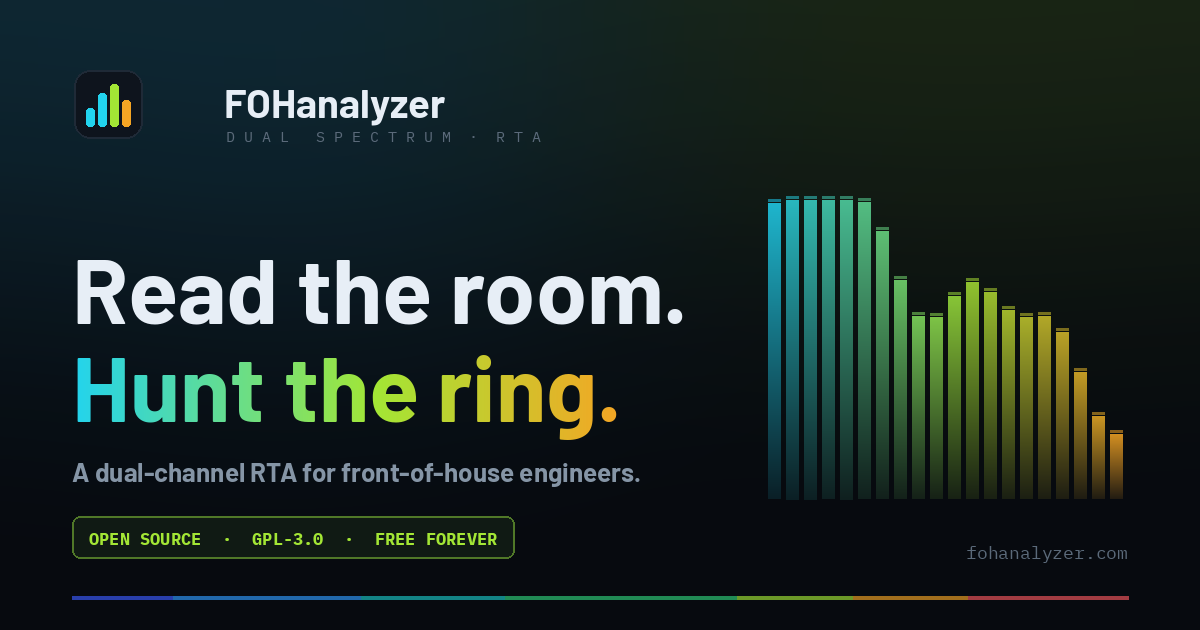
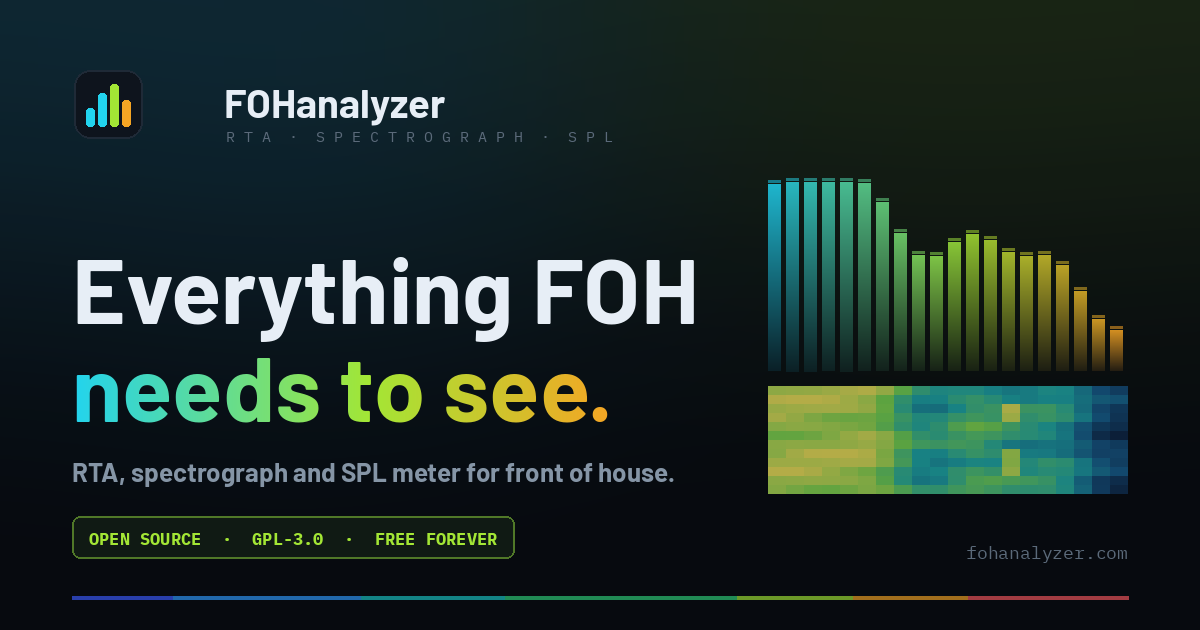
Say what FOHanalyzer is now, and refresh the screenshots and the link card
It grew past a line-check tool and a feedback finder, so the headline is
now "Everything FOH needs to see." and the descriptions name the RTA,
the spectrograph, ring-out assist and the SPL meter with its venue
limit. The screenshots show the split view and the limit, the
preferences shot the SPL meter page, and the link card draws a
spectrograph under its bars.

diff --git a/website/index.html b/website/index.html
@@ -10,7 +10,7 @@
 <meta name="referrer" content="strict-origin-when-cross-origin">
 
 <title>FOHanalyzer — an open-source dual-channel RTA for front-of-house</title>
-<meta name="description" content="A native desktop dual-channel RTA for front-of-house sound engineers. Overlay a measurement mic against the console solo bus: read the room, hunt feedback, verify EQ, meter SPL. Free software under GPL-3.0.">
+<meta name="description" content="A native desktop analyser for front-of-house sound engineers: a dual-channel RTA and spectrograph of the measurement mic against the console solo bus, ring-out assist, and an SPL meter with Leq and a venue limit. Free software under GPL-3.0.">
 
 <link rel="canonical" href="https://fohanalyzer.com/">
 <link rel="icon" href="assets/img/logo.svg" type="image/svg+xml">
@@ -22,17 +22,17 @@
 <meta property="og:locale" content="en_GB">
 <meta property="og:url" content="https://fohanalyzer.com/">
 <meta property="og:title" content="FOHanalyzer — an open-source dual-channel RTA for front-of-house">
-<meta property="og:description" content="Overlay a measurement mic against the console solo bus: read the room, hunt feedback, verify EQ, meter real SPL. Free software under GPL-3.0, with no account and no telemetry.">
+<meta property="og:description" content="The measurement mic against the console solo bus on an RTA and a spectrograph, ring-out assist, and an Leq meter held against the venue limit. Free software under GPL-3.0, with no account and no telemetry.">
 <meta property="og:image" content="https://fohanalyzer.com/assets/img/og.png">
 <meta property="og:image:type" content="image/png">
 <meta property="og:image:width" content="1200">
 <meta property="og:image:height" content="630">
-<meta property="og:image:alt" content="The FOHanalyzer wordmark over the headline “Read the room. Hunt the ring.”, beside a spectrum-analyser bar display in cyan, lime and amber.">
+<meta property="og:image:alt" content="The FOHanalyzer wordmark over the headline “Everything FOH needs to see.”, beside a spectrum-analyser bar display over a spectrograph, in cyan, lime and amber.">
 <meta name="twitter:card" content="summary_large_image">
 <meta name="twitter:title" content="FOHanalyzer — an open-source dual-channel RTA for front-of-house">
-<meta name="twitter:description" content="Overlay a measurement mic against the console solo bus: read the room, hunt feedback, verify EQ, meter real SPL. Free software under GPL-3.0, with no account and no telemetry.">
+<meta name="twitter:description" content="The measurement mic against the console solo bus on an RTA and a spectrograph, ring-out assist, and an Leq meter held against the venue limit. Free software under GPL-3.0, with no account and no telemetry.">
 <meta name="twitter:image" content="https://fohanalyzer.com/assets/img/og.png">
-<meta name="twitter:image:alt" content="The FOHanalyzer wordmark over the headline “Read the room. Hunt the ring.”, beside a spectrum-analyser bar display in cyan, lime and amber.">
+<meta name="twitter:image:alt" content="The FOHanalyzer wordmark over the headline “Everything FOH needs to see.”, beside a spectrum-analyser bar display over a spectrograph, in cyan, lime and amber.">
 
 <!-- Preload the two faces used above the fold; the bold cuts load normally. -->
 <link rel="preload" href="assets/fonts/Barlow-Regular.woff2" as="font" type="font/woff2" crossorigin>
@@ -96,15 +96,16 @@
 				<p class="chip"><span class="chip__dot chip__dot--pulse"></span>Free software · GPL-3.0-or-later</p>
 
 				<h1 class="hero__title">
-					Read the room.<br>
-					<span class="hero__accent">Hunt the ring.</span>
+					Everything FOH<br>
+					<span class="hero__accent">needs to see.</span>
 				</h1>
 
 				<p class="hero__lead">
-					A native desktop dual-channel RTA for front-of-house engineers. Overlay a
+					A native desktop analyser for front-of-house engineers. The
 					<strong class="t-cyan">measurement mic</strong> against the console
-					<strong class="t-amber">solo bus</strong>, and read room response against source
-					signal on one plot instead of guessing between two.
+					<strong class="t-amber">solo bus</strong> on an RTA and a spectrograph, ring-out
+					assist when something feeds back, and an SPL meter that holds the Leq against the
+					venue limit all night.
 				</p>
 
 				<div class="btn-row hero__actions">
@@ -155,7 +156,7 @@
 
 		<figure class="shot shot--float">
 			<img class="shot__img" src="assets/img/screenshot.png" width="1366" height="820"
-				alt="The FOHanalyzer window: a strip of view, trace and overlay buttons above a dual spectrum plot with a cyan measurement-mic trace over an amber solo-bus trace, and a rail on the right with the source levels, the SPL meter reading 97.1 dB LZeq over 5 minutes, and the logged feedback rings."
+				alt="The FOHanalyzer window in its split view: a dual spectrum plot with a cyan measurement-mic trace over an amber solo-bus trace, a ten-second spectrograph under it, and a rail on the right with the source levels, the SPL meter reading 97.1 dB LZeq over 5 minutes in amber just under its 98 dB limit with a 30-minute trend, and the logged feedback rings."
 				fetchpriority="high" decoding="async">
 		</figure>
 	</div>
@@ -185,7 +186,7 @@
 <section class="section section--ruled" id="features">
 	<div class="container">
 		<p class="sec-title sec-title--cyan">What it does</p>
-		<h2>Everything you reach for during a line check</h2>
+		<h2>Everything you reach for at front of house</h2>
 		<p class="mt-4 lead measure">
 			What you press sits in a strip above the plot, what you read sits in the rail beside
 			it, and what you set once lives in Preferences.
@@ -499,8 +500,8 @@
 
 			<figure>
 				<div class="shot">
-					<img class="shot__img" src="assets/img/preferences.png" width="560" height="552"
-						alt="The Preferences window on its Sources page, with a sidebar of pages: an input device and channel picker for each source, a mono or stereo choice for the solo bus, and the solo trim."
+					<img class="shot__img" src="assets/img/preferences.png" width="560" height="707"
+						alt="The Preferences window on its SPL meter page, with a sidebar of pages: the calibration of the input in use, a table of saved calibrations per interface and channel, the Leq window, the venue limit, and where the session logs go."
 						loading="lazy" decoding="async">
 				</div>
 				<figcaption class="shot__caption">Preferences — every setting, one page per area</figcaption>

diff --git a/website/contribute.html b/website/contribute.html
@@ -27,12 +27,12 @@
 <meta property="og:image:type" content="image/png">
 <meta property="og:image:width" content="1200">
 <meta property="og:image:height" content="630">
-<meta property="og:image:alt" content="The FOHanalyzer wordmark over the headline “Read the room. Hunt the ring.”, beside a spectrum-analyser bar display in cyan, lime and amber.">
+<meta property="og:image:alt" content="The FOHanalyzer wordmark over the headline “Everything FOH needs to see.”, beside a spectrum-analyser bar display over a spectrograph, in cyan, lime and amber.">
 <meta name="twitter:card" content="summary_large_image">
 <meta name="twitter:title" content="Contribute to FOHanalyzer">
 <meta name="twitter:description" content="What needs doing, how to get it running in two commands, the house code style, and how a change gets merged. No CLA, no backlog to earn your way into.">
 <meta name="twitter:image" content="https://fohanalyzer.com/assets/img/og.png">
-<meta name="twitter:image:alt" content="The FOHanalyzer wordmark over the headline “Read the room. Hunt the ring.”, beside a spectrum-analyser bar display in cyan, lime and amber.">
+<meta name="twitter:image:alt" content="The FOHanalyzer wordmark over the headline “Everything FOH needs to see.”, beside a spectrum-analyser bar display over a spectrograph, in cyan, lime and amber.">
 
 <link rel="preload" href="assets/fonts/Barlow-Regular.woff2" as="font" type="font/woff2" crossorigin>
 <link rel="preload" href="assets/fonts/IBMPlexMono-Bold.woff2" as="font" type="font/woff2" crossorigin>

diff --git a/website/impressum.html b/website/impressum.html
@@ -27,12 +27,12 @@
 <meta property="og:image:type" content="image/png">
 <meta property="og:image:width" content="1200">
 <meta property="og:image:height" content="630">
-<meta property="og:image:alt" content="The FOHanalyzer wordmark over the headline “Read the room. Hunt the ring.”, beside a spectrum-analyser bar display in cyan, lime and amber.">
+<meta property="og:image:alt" content="The FOHanalyzer wordmark over the headline “Everything FOH needs to see.”, beside a spectrum-analyser bar display over a spectrograph, in cyan, lime and amber.">
 <meta name="twitter:card" content="summary_large_image">
 <meta name="twitter:title" content="Impressum — FOHanalyzer">
 <meta name="twitter:description" content="Anbieterkennzeichnung nach § 5 DDG und § 18 Abs. 2 MStV für fohanalyzer.com, mit Haftungs-, Urheberrechts- und Datenschutzhinweisen.">
 <meta name="twitter:image" content="https://fohanalyzer.com/assets/img/og.png">
-<meta name="twitter:image:alt" content="The FOHanalyzer wordmark over the headline “Read the room. Hunt the ring.”, beside a spectrum-analyser bar display in cyan, lime and amber.">
+<meta name="twitter:image:alt" content="The FOHanalyzer wordmark over the headline “Everything FOH needs to see.”, beside a spectrum-analyser bar display over a spectrograph, in cyan, lime and amber.">
 <meta name="robots" content="index, nofollow">
 
 <link rel="preload" href="assets/fonts/Barlow-Regular.woff2" as="font" type="font/woff2" crossorigin>

diff --git a/website/404.html b/website/404.html
@@ -27,12 +27,12 @@
 <meta property="og:image:type" content="image/png">
 <meta property="og:image:width" content="1200">
 <meta property="og:image:height" content="630">
-<meta property="og:image:alt" content="The FOHanalyzer wordmark over the headline “Read the room. Hunt the ring.”, beside a spectrum-analyser bar display in cyan, lime and amber.">
+<meta property="og:image:alt" content="The FOHanalyzer wordmark over the headline “Everything FOH needs to see.”, beside a spectrum-analyser bar display over a spectrograph, in cyan, lime and amber.">
 <meta name="twitter:card" content="summary_large_image">
 <meta name="twitter:title" content="Nothing on this channel — FOHanalyzer">
 <meta name="twitter:description" content="That page does not exist. FOHanalyzer is an open-source dual-channel RTA for front-of-house engineers.">
 <meta name="twitter:image" content="https://fohanalyzer.com/assets/img/og.png">
-<meta name="twitter:image:alt" content="The FOHanalyzer wordmark over the headline “Read the room. Hunt the ring.”, beside a spectrum-analyser bar display in cyan, lime and amber.">
+<meta name="twitter:image:alt" content="The FOHanalyzer wordmark over the headline “Everything FOH needs to see.”, beside a spectrum-analyser bar display over a spectrograph, in cyan, lime and amber.">
 
 <!-- Root-absolute paths, unlike the other pages: a 404 is served at whatever
      URL was asked for, so a relative path would resolve against a directory

diff --git a/website/tools/make-og.py b/website/tools/make-og.py
@@ -43,8 +43,11 @@ RESOURCES = "src/main/resources/com/fohanalyzer/fonts"
 # error that only FOH_FONTS can clear. The new name is what the failure
 # message names when neither is there.
 def sibling_fonts():
-	for name in ("fohanalyzer", "fohanalyzer-java"):
-		candidate = ROOT.parent / name / RESOURCES
+	# The site now lives in website/ of the app repository itself, so its
+	# parent is the first place to look.
+	candidates = [ROOT.parent / RESOURCES]
+	candidates += [ROOT.parent.parent / name / RESOURCES for name in ("fohanalyzer", "fohanalyzer-java")]
+	for candidate in candidates:
 		if (candidate / "Barlow-Bold.ttf").is_file():
 			return candidate
 	return ROOT.parent / "fohanalyzer" / RESOURCES
@@ -96,15 +99,15 @@ for x, y, w, h, c in ((8, 22, 4.5, 10, CYAN), (14.5, 14, 4.5, 18, CYAN),
 
 tx = PAD + 72 * S + 22
 d.text((tx, LY + 10), "FOHanalyzer", font=barlow_b(40), fill=TXT)
-d.text((tx + 2, LY + 58), "D U A L   S P E C T R U M  ·  R T A", font=mono_r(15), fill=TXT_MUT)
+d.text((tx + 2, LY + 58), "R T A  ·  S P E C T R O G R A P H  ·  S P L", font=mono_r(15), fill=TXT_MUT)
 
 # -- headline ---------------------------------------------------------------
-# "Read the room." plain, "Hunt the ring." in the accent gradient — the same
+# "Everything FOH" plain, "needs to see." in the accent gradient — the same
 # split the hero makes.
 h1 = barlow_b(92)
-d.text((PAD, 232), "Read the room.", font=h1, fill=TXT)
+d.text((PAD, 232), "Everything FOH", font=h1, fill=TXT)
 
-line2, y2 = "Hunt the ring.", 330
+line2, y2 = "needs to see.", 330
 mask = Image.new("L", (W, H), 0)
 ImageDraw.Draw(mask).text((PAD, y2), line2, font=h1, fill=255)
 grad = Image.new("RGB", (W, H))
@@ -116,7 +119,7 @@ img.paste(grad, (0, 0), mask)
 d = ImageDraw.Draw(img)
 
 # -- strapline --------------------------------------------------------------
-d.text((PAD, 456), "A dual-channel RTA for front-of-house engineers.",
+d.text((PAD, 456), "RTA, spectrograph and SPL meter for front of house.",
        font=barlow_b(26), fill=TXT_DIM)
 
 # -- chip -------------------------------------------------------------------
@@ -129,17 +132,45 @@ d.rounded_rectangle([cx, cy, cx + tw + 34, cy + 42], radius=8,
 d.text((cx + 17, cy + 11), label, font=f, fill=LIME)
 
 # -- spectrum ---------------------------------------------------------------
-# The illustration from the hero: a log-tilted bar display with peak caps.
-# Confined to the right column — the headline runs to roughly x=700, so the
+# The illustration from the hero: a log-tilted bar display with peak caps,
+# and the app's split view under it — a spectrograph on the same columns.
+# Confined to the right column — the headline runs to roughly x=740, so the
 # bars start well clear of it rather than overprinting the words.
 BARS, BW, GAP = 20, 12, 6
 right = W - PAD
-base_y, max_h = 500, 300
-for i in range(BARS):
-	p = i / (BARS - 1)
+base_y, max_h = 372, 190
+
+# The app's spectrograph palette, quiet to loud.
+HEAT = [(12, 28, 58), (22, 92, 140), (30, 170, 170), (120, 214, 80), (238, 226, 90)]
+
+
+def heat(v):
+	v = max(0.0, min(1.0, v)) * (len(HEAT) - 1)
+	k = min(int(v), len(HEAT) - 2)
+	return lerp(HEAT[k], HEAT[k + 1], v - k)
+
+
+def level(p):
 	tilt = 0.92 - 0.55 * pow(p, 1.35) + 0.10 * math.exp(-pow((p - 0.22) / 0.16, 2))
 	wob = 0.10 * math.sin(p * 11.0) + 0.06 * math.sin(p * 23.0 + 1.1)
-	v = max(0.06, min(1.0, tilt + wob))
+	return max(0.06, min(1.0, tilt + wob))
+
+
+ROWS, RH, top_s = 12, 9, base_y + 14
+for i in range(BARS):
+	p = i / (BARS - 1)
+	x = right - (BARS - i) * (BW + GAP)
+	for r in range(ROWS):
+		drift = 0.08 * math.sin(r * 0.9 + p * 7.0) + 0.05 * math.sin(r * 2.3 - p * 13.0)
+		# A ring that comes and goes at one column, the way the app shows one.
+		ring = 0.35 if i == 13 and r in (2, 3, 7, 8, 9) else 0.0
+		col = heat(level(p) * 0.95 + drift + ring - 0.05)
+		y = top_s + r * RH
+		d.rectangle([x, y, x + BW + GAP - 1, y + RH - 1], fill=lerp(col, BG, 0.25))
+
+for i in range(BARS):
+	p = i / (BARS - 1)
+	v = level(p)
 	bh = v * max_h
 	x = right - (BARS - i) * (BW + GAP)
 	col = ramp(p)

diff --git a/README.md b/README.md
@@ -5,9 +5,9 @@
 <h1 align="center">FOHanalyzer</h1>
 
 <p align="center">
-  A native desktop dual-channel RTA for Front-of-House sound engineers.<br>
-  Overlay a <b>measurement mic</b> against the console <b>solo bus</b> — read the room,
-  hunt feedback, verify EQ, meter SPL.
+  A native desktop analyser for Front-of-House sound engineers.<br>
+  The <b>measurement mic</b> against the console <b>solo bus</b> on an RTA and a
+  spectrograph, ring-out assist, and an SPL meter held against the venue limit.
 </p>
 
 <p align="center">
@@ -20,7 +20,7 @@
 </p>
 
 <p align="center">
-  <img src="docs/screenshot.png" alt="The analyzer window: the action strip above the dual spectrum plot, and the rail with source levels, the SPL meter and the logged rings" width="100%">
+  <img src="docs/screenshot.png" alt="The analyzer window in its split view: the action strip above the dual spectrum plot and the spectrograph, and the rail with source levels, the SPL meter against its venue limit, and the logged rings" width="100%">
 </p>
 
 ## What it does
@@ -191,7 +191,7 @@ Preferences is a commit step: the controls bind straight to the shared state tha
 persisted anyway, so there is no OK/Cancel and nothing to apply.
 
 <p align="center">
-  <img src="docs/preferences.png" alt="The preferences window on its Sources page: input and channel pickers for each source, and the solo trim" width="500">
+  <img src="docs/preferences.png" alt="The preferences window on its SPL meter page: the calibration per input, the Leq window and the venue limit" width="500">
 </p>
 
 ### Saved settings
@@ -383,8 +383,9 @@ Pass a number for a longer delay (`PROBE=20`), e.g. to snapshot *after* a hot re
 
 **Demo mode.** `FOH_DEMO=true` starts with a show in progress instead of the stored settings
 and real inputs: named live inputs, a calibrated SPL meter partway through its window, two
-logged rings and a reference. The screenshots in this file and on the website are
-`FOH_DEMO=true PROBE=7 PROBE_PREFS=0 mvn -q javafx:run`, with the main shot cropped to
+logged rings, a reference, and a venue limit with half an hour of Leq behind it, in the split
+view. The screenshots in this file and on the website are
+`FOH_DEMO=true PROBE=13 PROBE_PREFS=1 mvn -q javafx:run`, with the main shot cropped to
 2732×1640.
 
 ## Licence
